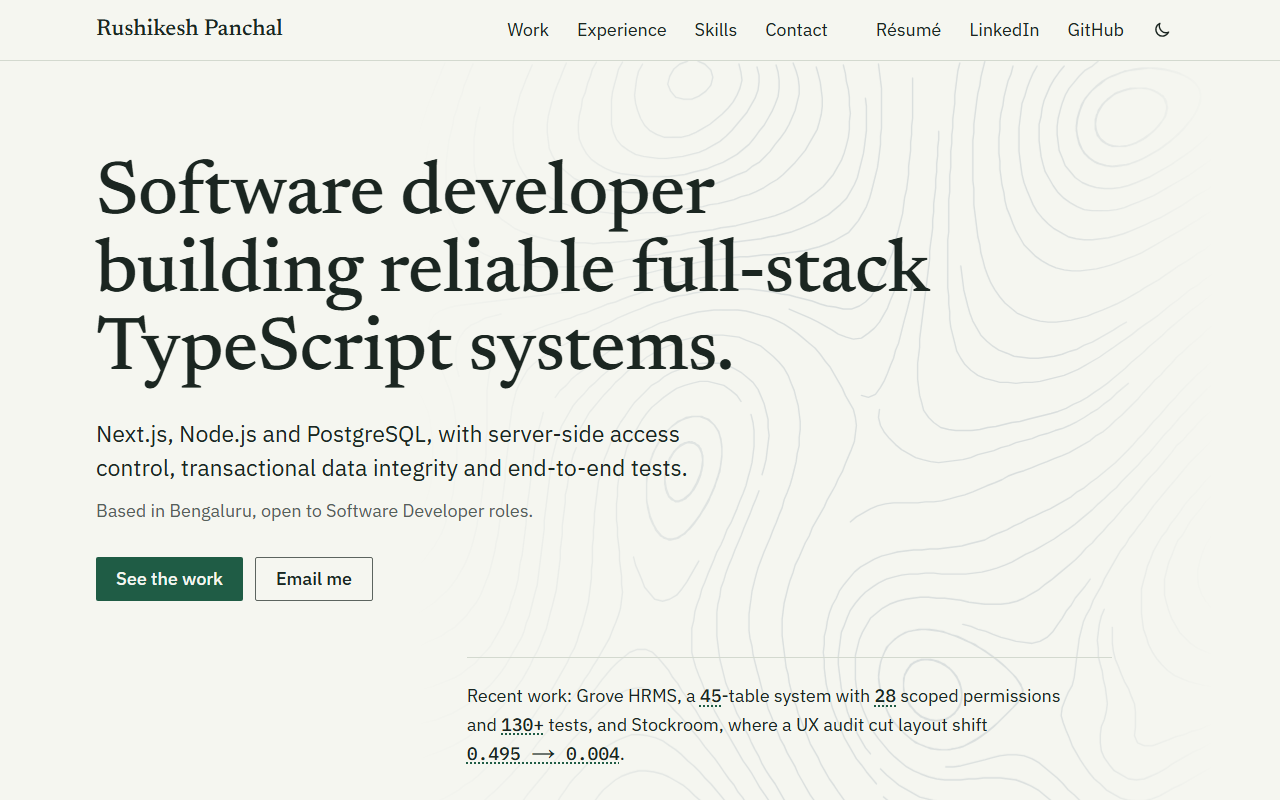
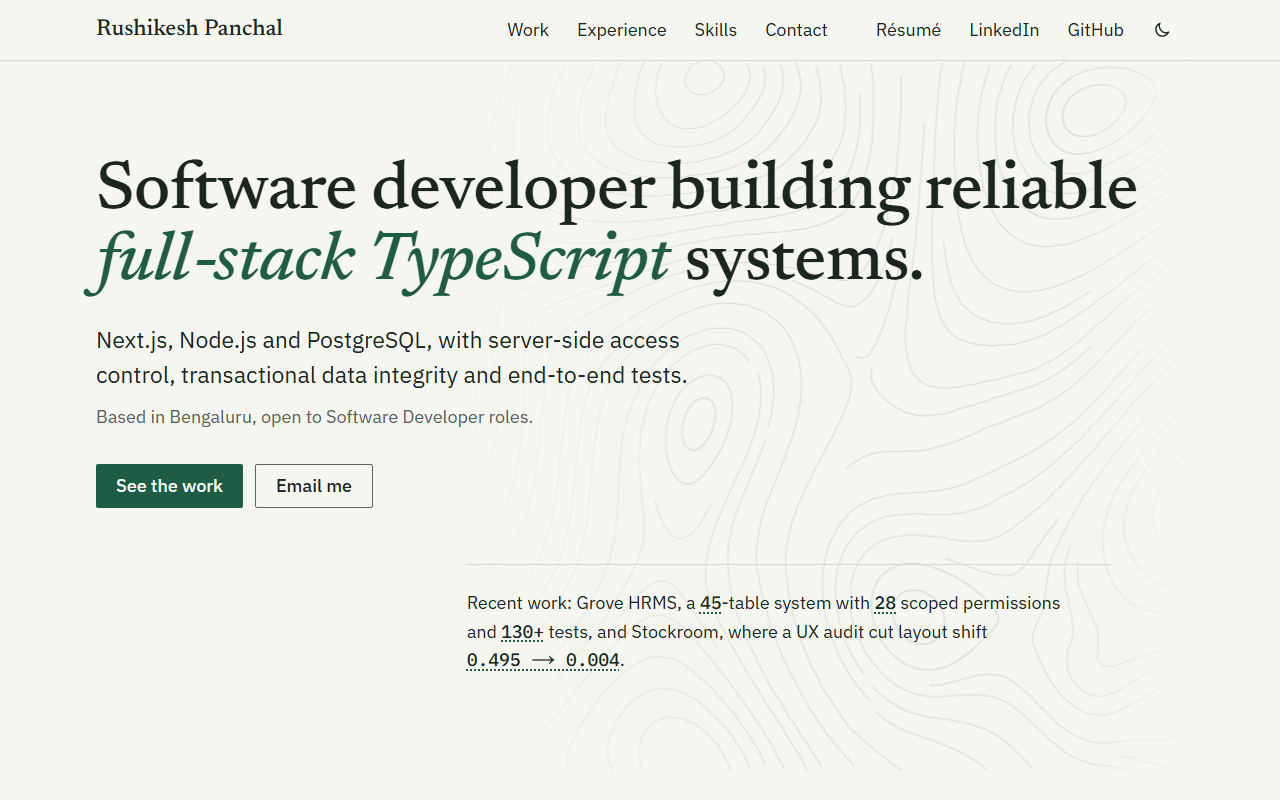
docs: refresh hero screenshots and record ADR-032
README screenshots show the new headline; ADR-032 records the choice,
the layout maths and the Lighthouse A/B.

Changed region(s): [[0.0625, 0.1875, 0.9062, 0.6562], [0.3438, 0.75, 0.8438, 0.9688], [0.0625, 0.6875, 0.2812, 0.75]]

diff --git a/DECISIONS.md b/DECISIONS.md
@@ -131,6 +131,12 @@ Heuristic review of the section order: Work comes before Experience, which is ri
   - **Why not a contact form:** no third party sees anything unless the visitor picks Gmail or Outlook, so there is no form service, key, spam handling or privacy note to maintain (ADR-007 stands).
   - **Cost and checks:** +0.6 kB of JS. e2e covers the `mailto:` fallback, every action's link, a real clipboard copy, Esc and focus return, the Contact trigger, and axe on the open panel.
 
+- **ADR-032 The headline emphasises "full-stack TypeScript", at the owner's request.** The phrase is set in Newsreader italic in the accent colour (7.5:1 in light; the dark accent passes the token contrast tests). frontend-design advises against accenting one phrase of a headline, but the owner asked for it with a reference image, and the brief's own words win on visual direction.
+  - **Data:** the phrase is `identity.headlineEmphasis` in `facts.ts`, and the schema fails the build unless it occurs in `headline`. The plain headline still feeds titles, share cards and JSON-LD.
+  - **Layout:** from 1280 px the `h1` spans the full width at 4.25 rem and breaks before the phrase, giving the reference's two lines (line 1 needs about 1,068 px of the 1,088 px column). Narrower screens wrap naturally.
+  - **Fonts:** the italic is now preloaded, because it is above the fold.
+  - **Measured:** the first local Lighthouse runs after this change failed (85–92). An A/B on the same machine showed the build _without_ the change also failing (87 / 87) and the build with it passing (97 / 99), so the dip was host noise, not the change.
+
 ## Skills log
 
 | Phase                | Skill                  | What it changed                                                                                                                                                                                                                                                                                               |

diff --git a/README.md b/README.md
@@ -246,7 +246,7 @@ src/
 scripts/                      serve-static · build-resume · lighthouse · check-bundle
 tests/unit · tests/e2e        Vitest and Playwright specs
 tools/flow-lines/             fluidsim generator for the hero art (offline)
-DECISIONS.md                  31 architecture decision records, skills log, measurements
+DECISIONS.md                  32 architecture decision records, skills log, measurements
 ```
 
 ## 🚀 Run it locally
@@ -308,7 +308,7 @@ A living style guide is at [`/design/`](https://rrushikeshp89.github.io/design/)
 
 ## 📚 Decisions
 
-[`DECISIONS.md`](DECISIONS.md) records **31 ADRs**, including the ones that changed the plan:
+[`DECISIONS.md`](DECISIONS.md) records **32 ADRs**, including the ones that changed the plan:
 
 | ADR | Decision                                                                     |
 | :-- | :--------------------------------------------------------------------------- |
